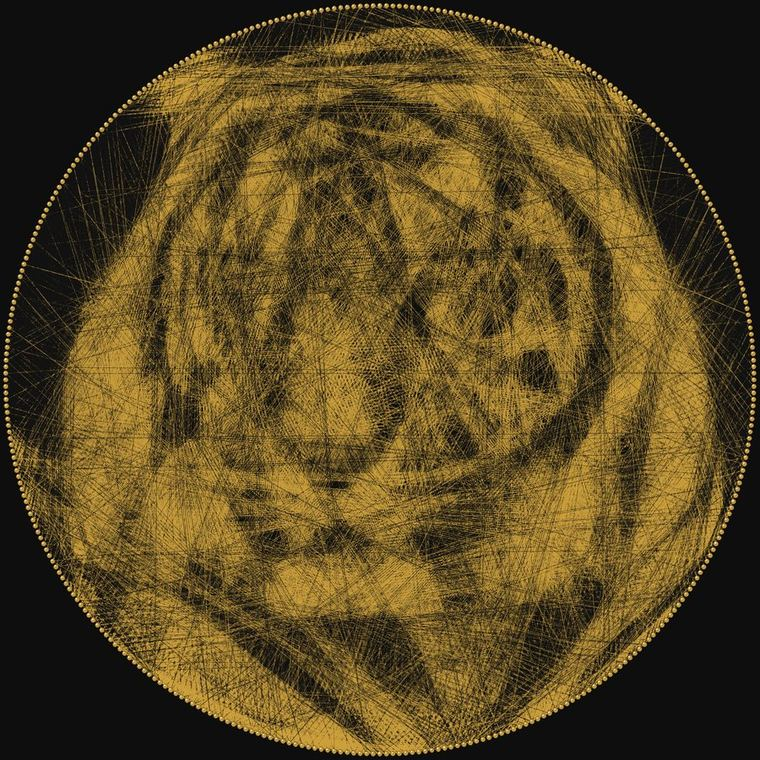
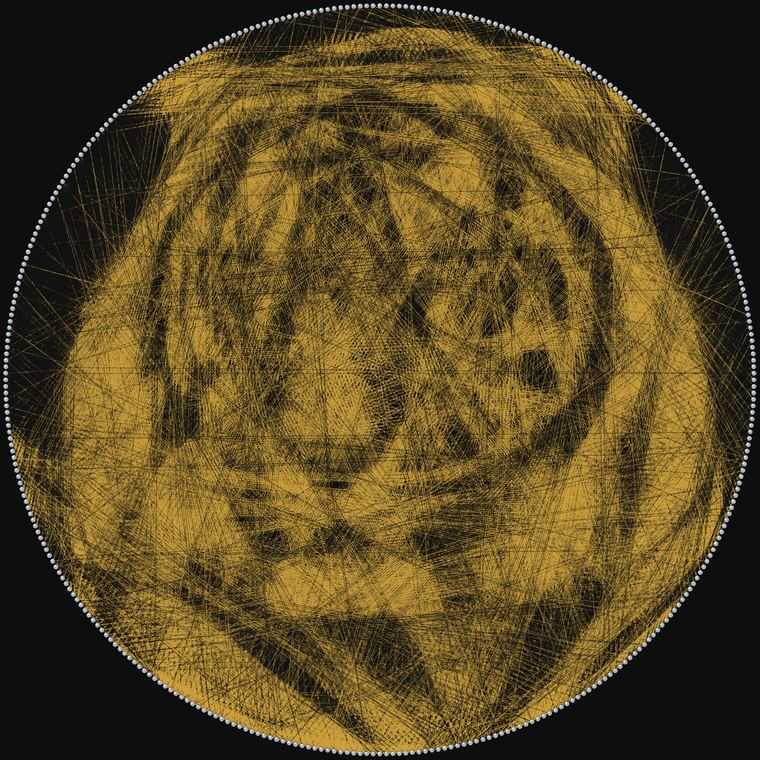
Design Silber statt Gold, Graphit statt Walnuss; Schalter Hell/Dunkel oben (gemerkt, ohne Aufflackern)
Alle Farben als Variablen, heller Modus mit Graphit-Akzent. Logo, Katzenbild und Zoom-Linie zeichnen silbern und wechseln beim Umschalten mit.
Beispielbilder mit silbernen Nägeln und Rahmenkante neu gerechnet; Logo-Dateien und Vorschaubild zum Teilen in Silber.

Claude-Session: https://claude.ai/code/session_01MQd3Ez1WfSEqrkkXqKTc86

diff --git a/static/home.css b/static/home.css
@@ -1,20 +1,36 @@
 /* Faded Art – Startseite v2
-   Idee: das Material der Bretter. Grund ist dunkles Walnussholz, Gold ist der Faden, Elfenbein das Licht.
+   Idee: Graphit und Silber wie Nagel und Faden. Dunkel ist Standard, hell per Schalter oben rechts.
    Ein einziger großer Moment: beim Scrollen spannt sich ein echtes Fadenbild. */
 body.v2{
-  --walnut:#17110c; --walnut-2:#1f1711; --walnut-3:#2a2017;
-  --gold:#c9a24a; --gold-hi:#e8c977; --ivory:#efe7d8; --muted:#a8998a; --faint:#7d6f60;
-  --line:rgba(201,162,74,.22);
+  /* Farben als Variablen: dunkel ist Standard, hell über den Schalter oben (html[data-theme=light]).
+     Namen von früher (walnut, gold, ivory) bleiben, damit nichts bricht: walnut = Grund, gold = Akzent (jetzt Silber), ivory = Text. */
+  --walnut:#111214; --walnut-2:#181a1d; --walnut-3:#22252a;
+  --gold:#a7aeb7; --gold-hi:#e6e9ed; --ivory:#eceef1; --muted:#9aa0a8; --faint:#6f757d; --soft:#c9ced4;
+  --acc:167,174,183; --acchi:230,233,237; --bgrgb:17,18,20; --fgrgb:236,238,241;
+  --on-acc:#121417; --glow:#1f2226; --deep:#0c0d0f; --frame:#0c0d0f; --knob-dark:#5d646c;
+  --line:rgba(var(--acc),.18);
   --serif:Cormorant,Georgia,serif; --sans:"Plus Jakarta Sans",system-ui,sans-serif;
   --ease:cubic-bezier(.2,.7,.15,1);
+  /* für die älteren Seiten (style.css) */
+  --bg:var(--walnut); --card:var(--walnut-2); --gold-t:var(--gold-hi); --text:var(--ivory);
+  --grad:linear-gradient(180deg,var(--gold-hi),var(--gold));
+  color-scheme:dark;
   background:var(--walnut); color:var(--ivory); font-family:var(--sans); font-size:1.0625rem; line-height:1.65;
+  transition:background-color .35s,color .35s;
+}
+html[data-theme=light] body.v2{
+  --walnut:#f3f3f1; --walnut-2:#ffffff; --walnut-3:#e7e8ea;
+  --gold:#5f6873; --gold-hi:#2b3138; --ivory:#16181b; --muted:#5b6169; --faint:#80868d; --soft:#3a3f45;
+  --acc:95,104,115; --acchi:43,49,56; --bgrgb:243,243,241; --fgrgb:22,24,27;
+  --on-acc:#ffffff; --glow:#ffffff; --deep:#e9eaec; --frame:#16181b; --knob-dark:#2b3138;
+  color-scheme:light;
 }
 body.v2 .wrap{max-width:none;padding:0}
 body.v2 main{overflow:clip}
 
 /* Kopfzeile */
 body.v2 header.top{position:fixed;inset:0 0 auto 0;z-index:40;padding:1rem max(1.25rem,calc(50% - 620px));border-bottom:1px solid transparent;transition:background .5s,border-color .5s,padding .5s}
-body.v2.scrolled header.top{background:rgba(23,17,12,.78);-webkit-backdrop-filter:blur(18px) saturate(1.2);backdrop-filter:blur(18px) saturate(1.2);border-bottom-color:var(--line);padding-block:.65rem}
+body.v2.scrolled header.top{background:rgba(var(--bgrgb),.78);-webkit-backdrop-filter:blur(18px) saturate(1.2);backdrop-filter:blur(18px) saturate(1.2);border-bottom-color:var(--line);padding-block:.65rem}
 body.v2 .logo{white-space:nowrap;font-size:1.15rem}
 body.v2 .menu summary{font-family:var(--sans);letter-spacing:.02em;font-size:.92rem;padding:.5rem 1.15rem}
 body.v2 .menu nav{background:var(--walnut-2)}
@@ -25,10 +41,10 @@ body.v2 footer{max-width:1240px;margin:0 auto;padding-inline:1.25rem;border-top-
 body.v2 h1,body.v2 h2,body.v2 h3{font-family:var(--serif);font-weight:500;letter-spacing:0;color:var(--ivory)}
 .h2{font-size:clamp(2.1rem,5vw,3.9rem);line-height:1.05;margin:0 0 1.25rem;text-wrap:balance}
 .sub{color:var(--muted);max-width:56ch;margin-bottom:2.5rem}
-.lead{color:#d6cbb9;font-size:clamp(1.05rem,1.5vw,1.2rem);max-width:46ch}
+.lead{color:var(--soft);font-size:clamp(1.05rem,1.5vw,1.2rem);max-width:46ch}
 .fine{color:var(--faint);font-size:.85rem;margin-top:2rem;max-width:72ch}
 body.v2 .btn{font-family:var(--sans);letter-spacing:.01em;font-weight:600;font-size:.98rem;padding:.9rem 1.7rem;border-radius:999px}
-body.v2 .btn-gold{background:linear-gradient(180deg,var(--gold-hi),var(--gold));color:#1a120a}
+body.v2 .btn-gold{background:linear-gradient(180deg,var(--gold-hi),var(--gold));color:var(--on-acc)}
 body.v2 .btn-quiet{border-color:transparent;color:var(--ivory);text-decoration:underline;text-decoration-color:var(--gold);text-underline-offset:.35em;padding-inline:.5rem}
 body.v2 .btn-quiet:hover{box-shadow:none;color:var(--gold-hi)}
 body.v2 .cta-row{display:flex;gap:1rem;flex-wrap:wrap;align-items:center}
@@ -40,7 +56,7 @@ body.v2 .cta-row{display:flex;gap:1rem;flex-wrap:wrap;align-items:center}
 /* 1. Hero */
 .hero{min-height:100svh;display:grid;grid-template-columns:minmax(0,1.1fr) minmax(0,1fr);align-items:center;gap:clamp(2rem,5vw,5rem);
   padding:6.5rem max(1.25rem,calc(50% - 620px)) 3rem;
-  background:radial-gradient(55% 60% at 30% 50%,#2a1f14 0%,transparent 70%),var(--walnut)}
+  background:radial-gradient(55% 60% at 30% 50%,var(--glow) 0%,transparent 70%),var(--walnut)}
 .hero-art{position:relative;width:min(100%,660px,78svh);aspect-ratio:1;justify-self:center}
 .hero-art canvas{width:100%;height:100%;display:block}
 .hero-count{position:absolute;right:6%;bottom:6%;font-size:.85rem;color:var(--muted)}
@@ -50,15 +66,15 @@ body.v2 .cta-row{display:flex;gap:1rem;flex-wrap:wrap;align-items:center}
 .hero .lead{margin-bottom:2.25rem}
 
 /* 2. Wie es entsteht: Regler zum Ziehen */
-.build{background:linear-gradient(var(--walnut),#120d09 20%,#120d09 80%,var(--walnut));padding:clamp(4.5rem,9vw,7rem) max(1.25rem,calc(50% - 620px))}
+.build{background:linear-gradient(var(--walnut),var(--deep) 20%,var(--deep) 80%,var(--walnut));padding:clamp(4.5rem,9vw,7rem) max(1.25rem,calc(50% - 620px))}
 .build-in{display:grid;grid-template-columns:minmax(0,1.2fr) auto minmax(0,1fr);align-items:center;gap:clamp(1.25rem,3vw,2.75rem)}
 .build-stage{position:relative;width:min(100%,78svh,620px);aspect-ratio:1;justify-self:center}
 .build-art,.build-art canvas{width:100%;height:100%;display:block;border-radius:50%}
-.build-art{box-shadow:0 0 0 1px rgba(201,162,74,.45),0 40px 90px -30px #000}
+.build-art{box-shadow:0 0 0 1px rgba(var(--acc),.45),0 40px 90px -30px #000}
 .build-orig{position:absolute;left:-4%;top:-4%;width:30%;margin:0;z-index:2}
 .build-orig img{width:100%;aspect-ratio:1;object-fit:cover;border-radius:50%;display:block;box-shadow:0 0 0 3px var(--walnut),0 0 0 4px var(--gold),0 14px 30px -10px #000}
 .build-orig figcaption{text-align:center;font-size:.82rem;color:var(--muted);margin-top:.5rem}
-.build-meter{position:absolute;right:-2%;bottom:-2%;display:grid;gap:.15rem;text-align:right;background:rgba(23,17,12,.85);border:1px solid var(--line);border-radius:14px;padding:.7rem 1rem;-webkit-backdrop-filter:blur(8px);backdrop-filter:blur(8px)}
+.build-meter{position:absolute;right:-2%;bottom:-2%;display:grid;gap:.15rem;text-align:right;background:rgba(var(--bgrgb),.85);border:1px solid var(--line);border-radius:14px;padding:.7rem 1rem;-webkit-backdrop-filter:blur(8px);backdrop-filter:blur(8px)}
 .build-meter p{display:flex;align-items:baseline;justify-content:flex-end;gap:.5rem;line-height:1.2}
 .build-meter b{font-family:var(--serif);font-weight:500;font-size:1.7rem;color:var(--gold-hi);font-variant-numeric:tabular-nums;min-width:3.6ch}
 .build-meter span{font-size:.8rem;color:var(--muted)}
@@ -66,37 +82,37 @@ body.v2 .cta-row{display:flex;gap:1rem;flex-wrap:wrap;align-items:center}
 .build-steps li{grid-area:1/1;opacity:0;transform:translateY(10px);transition:opacity .45s var(--ease),transform .55s var(--ease)}
 .build-steps li.on{opacity:1;transform:none}
 .build-steps h3{font-size:clamp(1.5rem,2.6vw,2rem);line-height:1.1;margin-bottom:.6rem;color:var(--gold-hi)}
-.build-steps p{color:#cdbfaa;max-width:40ch}
+.build-steps p{color:var(--soft);max-width:40ch}
 body.v2 .linkbtn{color:var(--gold-hi)}
 /* Regler: senkrechtes Lineal mit Raster, Knopf zum Ziehen */
 .scrub-wrap{height:min(78svh,620px);display:flex;align-items:stretch;padding:0 2.6rem 0 .5rem}
 .scrub{position:relative;width:44px;cursor:grab;touch-action:none;outline:none}
 .scrub.drag{cursor:grabbing}
-.scrub::before{content:"";position:absolute;left:21px;top:0;bottom:0;width:2px;background:rgba(239,231,216,.18);border-radius:2px}
-.scrub-fill{position:absolute;left:21px;top:0;width:2px;height:0;background:linear-gradient(var(--gold-hi),var(--gold));box-shadow:0 0 8px rgba(232,201,119,.6)}
-.scrub-ticks span{position:absolute;top:var(--p);left:14px;width:8px;height:1px;background:rgba(239,231,216,.35)}
-.scrub-ticks span.big{width:14px;left:8px;background:rgba(239,231,216,.6)}
+.scrub::before{content:"";position:absolute;left:21px;top:0;bottom:0;width:2px;background:rgba(var(--fgrgb),.18);border-radius:2px}
+.scrub-fill{position:absolute;left:21px;top:0;width:2px;height:0;background:linear-gradient(var(--gold-hi),var(--gold));box-shadow:0 0 8px rgba(var(--acchi),.6)}
+.scrub-ticks span{position:absolute;top:var(--p);left:14px;width:8px;height:1px;background:rgba(var(--fgrgb),.35)}
+.scrub-ticks span.big{width:14px;left:8px;background:rgba(var(--fgrgb),.6)}
 .scrub-ticks em{position:absolute;left:30px;top:0;transform:translateY(-50%);font-style:normal;font-size:.72rem;color:var(--faint);font-variant-numeric:tabular-nums;white-space:nowrap}
-.scrub-knob{position:absolute;left:22px;top:0;width:26px;height:26px;margin:-13px 0 0 -13px;border-radius:50%;background:radial-gradient(circle at 35% 35%,#f6e3a6,var(--gold) 60%,#7a5c1f);box-shadow:0 0 0 4px rgba(201,162,74,.18),0 4px 12px rgba(0,0,0,.6);transition:box-shadow .2s}
-.scrub:focus-visible .scrub-knob,.scrub.drag .scrub-knob{box-shadow:0 0 0 7px rgba(232,201,119,.32),0 4px 12px rgba(0,0,0,.6)}
+.scrub-knob{position:absolute;left:22px;top:0;width:26px;height:26px;margin:-13px 0 0 -13px;border-radius:50%;background:radial-gradient(circle at 35% 35%,var(--gold-hi),var(--gold) 60%,var(--knob-dark));box-shadow:0 0 0 4px rgba(var(--acc),.18),0 4px 12px rgba(0,0,0,.6);transition:box-shadow .2s}
+.scrub:focus-visible .scrub-knob,.scrub.drag .scrub-knob{box-shadow:0 0 0 7px rgba(var(--acchi),.32),0 4px 12px rgba(0,0,0,.6)}
 
 /* 3. Nah und fern */
 .nf-sec{text-align:center}
 .nf-sec .h2{margin-bottom:3.5rem}
 .nf{display:grid;grid-template-columns:1fr 1fr;gap:clamp(1rem,5vw,4rem);max-width:900px;margin:0 auto}
 .nf figure{margin:0}
-.nf img{width:100%;max-width:380px;aspect-ratio:1;object-fit:cover;border-radius:50%;display:block;margin:0 auto 1.25rem;box-shadow:0 0 0 1px rgba(201,162,74,.45),0 30px 60px -25px #000}
+.nf img{width:100%;max-width:380px;aspect-ratio:1;object-fit:cover;border-radius:50%;display:block;margin:0 auto 1.25rem;box-shadow:0 0 0 1px rgba(var(--acc),.45),0 30px 60px -25px #000}
 .nf figcaption{color:var(--muted);font-size:.95rem;max-width:30ch;margin:0 auto}
 .nf figcaption b{display:block;font-family:var(--serif);font-weight:500;font-size:1.45rem;color:var(--ivory);margin-bottom:.2rem}
 
 /* 4. Schwarz und Weiß */
 .bw{display:grid;grid-template-columns:1.1fr 1fr;gap:clamp(2rem,6vw,6rem);align-items:center}
 .bw-img img{width:100%;display:block;border-radius:4px;box-shadow:0 40px 80px -30px #000}
-.bw-copy p:not(.fine){color:#cdbfaa;margin-bottom:1rem;max-width:52ch}
+.bw-copy p:not(.fine){color:var(--soft);margin-bottom:1rem;max-width:52ch}
 
 /* 5. Holz */
 .wood{display:grid;grid-template-columns:minmax(0,1fr) minmax(0,1fr);gap:clamp(2rem,5vw,5rem);align-items:center;margin-top:3rem}
-.wood-frame{padding:14px;background:#0e0b08;box-shadow:inset 0 0 0 1px rgba(201,162,74,.6),0 50px 90px -30px #000;width:min(100%,520px);justify-self:center}
+.wood-frame{padding:14px;background:var(--frame);box-shadow:inset 0 0 0 1px rgba(var(--acc),.6),0 50px 90px -30px #000;width:min(100%,520px);justify-self:center}
 .wood-board{aspect-ratio:1;display:grid;place-items:center;transition:background-image .4s}
 .wood-board img{width:88%;aspect-ratio:1;border-radius:50%;object-fit:cover;box-shadow:0 6px 18px rgba(0,0,0,.55)}
 .wood-name{font-family:var(--serif);font-size:clamp(1.8rem,3.4vw,2.6rem);line-height:1.1;margin-bottom:1.5rem;color:var(--gold-hi)}
@@ -129,7 +145,7 @@ body.v2 .wood-board[data-wood=beton]{background:url(img/holz/beton.jpg) center/c
 .room-floor{fill:#b9a283}
 .room-sofa rect{fill:#5c6a63}
 .room-sofa rect:nth-child(4){fill:#4e5b54}
-.room-board{stroke:#0e0b08;stroke-width:1.2;filter:drop-shadow(0 2px 2px rgba(0,0,0,.35));transition:all .5s var(--ease)}
+.room-board{stroke:var(--frame);stroke-width:1.2;filter:drop-shadow(0 2px 2px rgba(0,0,0,.35));transition:all .5s var(--ease)}
 #boardArt{transition:all .5s var(--ease)}
 .room-dim{font:500 5px var(--sans);fill:#5a4c3d;text-anchor:middle}
 .size-pick{display:grid;gap:.6rem}
@@ -149,9 +165,9 @@ body.v2 .wood-board[data-wood=beton]{background:url(img/holz/beton.jpg) center/c
 
 /* 9. Gutschein */
 .gift{display:grid;grid-template-columns:minmax(0,.9fr) minmax(0,1fr);gap:clamp(2rem,6vw,6rem);align-items:center}
-.gift p{color:#cdbfaa;max-width:48ch;margin-bottom:1.75rem}
+.gift p{color:var(--soft);max-width:48ch;margin-bottom:1.75rem}
 .gift-card{aspect-ratio:1.6;max-width:460px;width:100%;justify-self:center;border-radius:16px;padding:1.6rem 1.8rem;position:relative;overflow:hidden;
-  background:linear-gradient(135deg,#2c2117,#15100b 60%);box-shadow:inset 0 0 0 1px rgba(201,162,74,.55),0 40px 70px -30px #000;transform:rotate(-3deg)}
+  background:linear-gradient(135deg,#2c2117,#15100b 60%);box-shadow:inset 0 0 0 1px rgba(var(--acc),.55),0 40px 70px -30px #000;transform:rotate(-3deg)}
 .gift-card img{position:absolute;right:-18%;top:-22%;width:70%;opacity:.9}
 .gift-card .gc-mark{font-family:Cinzel,Georgia,serif;letter-spacing:.3em;font-size:.8rem;color:var(--gold);margin:0}
 .gift-card .gc-t{font-family:var(--serif);font-size:2.6rem;line-height:1;margin:1.6rem 0 .5rem;color:var(--ivory)}
@@ -168,7 +184,7 @@ body.v2 .wood-board[data-wood=beton]{background:url(img/holz/beton.jpg) center/c
 .faq p{color:var(--muted);margin-top:.7rem;max-width:62ch}
 
 /* Schluss */
-.final{text-align:center;padding:clamp(6rem,14vw,10rem) 1.25rem;background:radial-gradient(45% 55% at 50% 50%,#2a1f14,transparent 70%);border-top:1px solid var(--line)}
+.final{text-align:center;padding:clamp(6rem,14vw,10rem) 1.25rem;background:radial-gradient(45% 55% at 50% 50%,var(--glow),transparent 70%);border-top:1px solid var(--line)}
 .final h2{font-size:clamp(2.6rem,6.4vw,5.2rem);line-height:1;margin-bottom:1rem}
 .final .lead{margin:0 auto 2.25rem}
 .final .cta-row{justify-content:center}
@@ -201,7 +217,7 @@ body.v2 .wood-board[data-wood=beton]{background:url(img/holz/beton.jpg) center/c
 .seg{display:grid;grid-template-columns:repeat(2,1fr);gap:4px;padding:4px;background:var(--walnut-2);border-radius:12px}
 .seg4{grid-template-columns:repeat(4,1fr)}
 .seg button{font:inherit;font-size:.86rem;color:var(--ivory);background:transparent;border:0;border-radius:9px;padding:.6rem .3rem;cursor:pointer;line-height:1.2;min-width:0}
-.seg button:hover{background:rgba(239,231,216,.06)}
+.seg button:hover{background:rgba(var(--fgrgb),.06)}
 .seg button.on{background:var(--walnut-3);box-shadow:inset 0 0 0 1px var(--gold);color:var(--gold-hi)}
 .sizes-seg button{display:grid;gap:.1rem}
 .sizes-seg b{font-family:var(--serif);font-weight:500;font-size:1.25rem}
@@ -214,14 +230,14 @@ body.v2 .wood-board[data-wood=beton]{background:url(img/holz/beton.jpg) center/c
 
 /* Faden-Leiste rechts */
 .thread{position:fixed;right:clamp(8px,1.6vw,24px);top:96px;z-index:30;width:24px;pointer-events:none}
-.t-line{position:relative;width:2px;margin-left:11px;background:rgba(239,231,216,.2);border-radius:2px}
-.t-fill{position:absolute;inset:0;background:linear-gradient(var(--gold-hi),var(--gold));transform-origin:top;transform:scaleY(0);box-shadow:0 0 8px rgba(232,201,119,.7);border-radius:2px}
+.t-line{position:relative;width:2px;margin-left:11px;background:rgba(var(--fgrgb),.2);border-radius:2px}
+.t-fill{position:absolute;inset:0;background:linear-gradient(var(--gold-hi),var(--gold));transform-origin:top;transform:scaleY(0);box-shadow:0 0 8px rgba(var(--acchi),.7);border-radius:2px}
 .thread-pins{list-style:none;position:absolute;inset:0 0 auto 0}
 .thread-pins li{position:absolute;right:0;transform:translateY(-50%);pointer-events:auto}
 .thread-pins a{display:flex;align-items:center;justify-content:center;width:24px;height:24px;text-decoration:none;position:relative}
-.thread-pins i{width:9px;height:9px;border-radius:50%;background:var(--walnut-3);box-shadow:0 0 0 1px rgba(239,231,216,.35);transition:background .35s,box-shadow .35s,transform .35s}
-.thread-pins span{position:absolute;right:28px;white-space:nowrap;font-size:.8rem;color:var(--ivory);background:rgba(23,17,12,.9);border:1px solid var(--line);border-radius:999px;padding:.2rem .65rem;opacity:0;transform:translateX(6px);transition:opacity .35s,transform .35s}
-.thread-pins li.on i{background:var(--gold-hi);box-shadow:0 0 0 1px var(--gold),0 0 10px rgba(232,201,119,.7)}
+.thread-pins i{width:9px;height:9px;border-radius:50%;background:var(--walnut-3);box-shadow:0 0 0 1px rgba(var(--fgrgb),.35);transition:background .35s,box-shadow .35s,transform .35s}
+.thread-pins span{position:absolute;right:28px;white-space:nowrap;font-size:.8rem;color:var(--ivory);background:rgba(var(--bgrgb),.9);border:1px solid var(--line);border-radius:999px;padding:.2rem .65rem;opacity:0;transform:translateX(6px);transition:opacity .35s,transform .35s}
+.thread-pins li.on i{background:var(--gold-hi);box-shadow:0 0 0 1px var(--gold),0 0 10px rgba(var(--acchi),.7)}
 .thread-pins li.cur i{transform:scale(1.4)}
 .thread-pins li.cur span,.thread-pins a:hover span,.thread-pins a:focus-visible span{opacity:1;transform:none}
 
@@ -287,7 +303,7 @@ body.v2 .steps-v{max-width:none;margin:3rem 0 0}
 .cmp-pick button.on{border-color:var(--gold);color:var(--gold-hi)}
 .cmp{display:grid;grid-template-columns:repeat(4,minmax(0,1fr));gap:clamp(1rem,2.5vw,2rem)}
 .cmp figure{margin:0}
-.cmp img{width:100%;aspect-ratio:1;object-fit:cover;border-radius:50%;display:block;box-shadow:0 0 0 1px rgba(201,162,74,.35),0 24px 50px -24px #000}
+.cmp img{width:100%;aspect-ratio:1;object-fit:cover;border-radius:50%;display:block;box-shadow:0 0 0 1px rgba(var(--acc),.35),0 24px 50px -24px #000}
 .cmp-lux img{box-shadow:0 0 0 2px var(--gold),0 24px 50px -24px #000}
 .cmp figcaption{margin-top:1rem;color:var(--muted);font-size:.9rem}
 .cmp figcaption b{display:block;font-family:var(--serif);font-weight:500;font-size:1.35rem;color:var(--ivory)}
@@ -297,7 +313,7 @@ body.v2 .steps-v{max-width:none;margin:3rem 0 0}
 .player{display:flex;align-items:center;gap:.6rem;margin-top:1.5rem;flex-wrap:wrap}
 .player button{width:44px;height:44px;border-radius:50%;border:1px solid var(--line);background:var(--walnut-2);color:var(--ivory);display:grid;place-items:center;cursor:pointer;transition:border-color .2s,background .2s}
 .player button:hover{border-color:var(--gold)}
-.player button.main{width:54px;height:54px;background:linear-gradient(180deg,var(--gold-hi),var(--gold));border:0;color:#1a120a}
+.player button.main{width:54px;height:54px;background:linear-gradient(180deg,var(--gold-hi),var(--gold));border:0;color:var(--on-acc)}
 .player svg{width:20px;height:20px;fill:currentColor}
 .player .main svg{width:24px;height:24px}
 .player .i-play,.player .paused .i-pause{display:none}
@@ -308,7 +324,7 @@ body.v2 .steps-v{max-width:none;margin:3rem 0 0}
 .build-meter p{justify-content:flex-start}
 .build-meter b{font-size:2rem;min-width:0}
 .build-orig{position:absolute}
-.build-orig figcaption{position:absolute;left:50%;bottom:4%;transform:translateX(-50%);margin:0;padding:.15rem .6rem;border-radius:999px;background:rgba(23,17,12,.85);border:1px solid var(--line);font-size:.75rem;color:var(--ivory);white-space:nowrap}
+.build-orig figcaption{position:absolute;left:50%;bottom:4%;transform:translateX(-50%);margin:0;padding:.15rem .6rem;border-radius:999px;background:rgba(var(--bgrgb),.85);border:1px solid var(--line);font-size:.75rem;color:var(--ivory);white-space:nowrap}
 @media(max-width:900px) and (orientation:portrait),(max-width:600px){.build-meter{gap:1.5rem;margin-top:1rem}.build-meter b{font-size:1.6rem}}
 
 /* Unterseiten (Konfigurator, Warenkorb, Gutschein, Rechtstexte) im selben Stil */
@@ -318,7 +334,7 @@ body.v2.page h2.title{font-size:clamp(2rem,4.5vw,3rem);text-align:left;margin-bo
 body.v2.page .legal{max-width:760px}
 body.v2.page .legal h1{font-size:clamp(2rem,4vw,2.8rem)}
 body.v2.page .legal h2{font-family:var(--serif);font-size:1.4rem;color:var(--gold-hi)}
-body.v2.page .legal p,body.v2.page .legal li{color:#d6cbb9}
+body.v2.page .legal p,body.v2.page .legal li{color:var(--soft)}
 body.v2.page .panel h2{font-size:1.9rem}
 body.v2.page .steps b{border-color:var(--walnut-3)}
 body.v2.page .field label{font-family:var(--sans)}
@@ -334,7 +350,7 @@ body.v2.page .menu summary{color:var(--gold-hi)}
 .real{display:grid;grid-template-columns:minmax(0,1fr) minmax(0,1fr);gap:clamp(2rem,6vw,5rem);align-items:center}
 .real-img{margin:0}
 .real-img img{width:100%;display:block;border-radius:4px;box-shadow:0 40px 80px -30px #000}
-.real p:not(.fine){color:#cdbfaa;max-width:48ch;margin-bottom:1rem}
+.real p:not(.fine){color:var(--soft);max-width:48ch;margin-bottom:1rem}
 @media(max-width:900px) and (orientation:portrait),(max-width:600px){.real{grid-template-columns:1fr}}
 @media(max-width:600px){.seg[data-k=fmt]{grid-template-columns:1fr 1fr}}
 /* Raum-Vorschau im Konfigurator */
@@ -354,3 +370,36 @@ body.v2.page .menu summary{color:var(--gold-hi)}
 .restart{display:inline-flex;align-items:center;gap:.45rem;font:inherit;font-size:.88rem;color:var(--gold-hi);background:transparent;border:1px solid var(--line);border-radius:999px;padding:.45rem .95rem;cursor:pointer}
 .restart::before{content:"↺";font-size:1rem;line-height:1}
 .restart:hover{border-color:var(--gold)}
+
+/* ===== Farben der älteren Seiten (style.css) an Silber und Hell/Dunkel anpassen ===== */
+body.v2 input,body.v2 select{background:var(--walnut-3);color:var(--ivory);border-color:var(--line)}
+body.v2 .btn{color:var(--gold-hi);border-color:var(--line)}
+body.v2 .btn-gold,body.v2 .menu nav a.cta,body.v2 .gs-val.on,body.v2 .gs-sale{color:var(--on-acc)}
+body.v2 .btn:hover{box-shadow:0 8px 24px rgba(var(--acc),.25)}
+body.v2 .menu nav a{color:var(--ivory)}
+body.v2 .menu nav a:hover{background:var(--walnut-3)}
+body.v2 .steps b{border-color:var(--walnut-3)}
+body.v2 .steps li.done b{background:var(--gold);color:var(--on-acc)}
+body.v2 .steps li[aria-current=step]{color:var(--gold-hi)}
+body.v2 .vopt{color:var(--ivory)}
+body.v2 .vopt img,body.v2 .vopt canvas,body.v2 .cart-thumb img{background:var(--walnut-3)}
+body.v2 .vopt.sel{border-color:var(--gold);box-shadow:0 0 0 2px rgba(var(--acc),.35)}
+body.v2 .sugg-h,body.v2 .vopt .xp{color:var(--gold-hi)}
+body.v2 .cut-seg{background:var(--walnut-3)}
+body.v2 .cut-seg button{color:var(--ivory)}
+body.v2 .cut-seg button.on{background:var(--walnut-2);color:var(--gold-hi)}
+body.v2 .spin{border-color:var(--walnut-3);border-top-color:var(--gold)}
+body.v2 mark{background:rgba(var(--acc),.22);color:var(--gold-hi)}
+body.v2 .field label,body.v2 .cut-l,body.v2 .price,body.v2 .cartlink,body.v2 .biginfo,body.v2 a{color:var(--gold-hi)}
+body.v2 .hint{color:var(--muted)}
+html[data-theme=light] body.v2 .msg{color:#b3261e}
+body.v2 footer{color:var(--muted)}
+
+/* Schalter Hell/Dunkel in der Kopfzeile */
+.theme-btn{display:grid;place-items:center;width:38px;height:38px;border-radius:50%;border:1px solid var(--line);background:transparent;color:var(--gold-hi);cursor:pointer;transition:border-color .2s,transform .3s}
+.theme-btn:hover{border-color:var(--gold)}
+.theme-btn svg{width:18px;height:18px;fill:none;stroke:currentColor;stroke-width:1.8;stroke-linecap:round}
+.theme-btn .i-sun{display:none}
+html[data-theme=light] .theme-btn .i-sun{display:block}
+html[data-theme=light] .theme-btn .i-moon{display:none}
+@media(max-width:600px){.theme-btn{width:34px;height:34px}body.v2 .head-right{gap:.6rem}}

diff --git a/templates/index.html b/templates/index.html
@@ -275,27 +275,38 @@
   const $ = s => document.querySelector(s), $$ = s => [...document.querySelectorAll(s)];
   const de = v => Math.round(v).toLocaleString('de-DE');
 
-  /* Hero: Logo spannt sich (Nagel i -> i+75, verblassender Ring) */
+  /* Hero: Logo spannt sich (Nagel i -> i+75, verblassender Ring). Silber im dunklen, Graphit im hellen Modus */
   (() => {
     const cv = $('#heroCanvas'), cnt = $('#heroN'), ctx = cv.getContext('2d'), S = cv.width, c = S / 2, R = S * .40, n = 240;
     const ang = i => Math.PI / 2 + 2 * Math.PI * (i % n) / n;
     const P = Array.from({ length: n }, (_, i) => [c + R * Math.cos(ang(i)), c + R * Math.sin(ang(i))]);
     const fade = i => Math.pow(Math.cos(2 * Math.PI * i / n + Math.PI) * .5 + .5, 1.6);
     const L = [];
-    for (let i = 0; i < n; i++) L.push([i, (i + 75) % n, 'rgba(222,184,82,' + (.05 + .5 * fade(i)).toFixed(3) + ')', 1.4]);
-    for (let i = 0; i < n; i++) if (fade(i) > .25) L.push([i, (i + 100) % n, 'rgba(242,236,222,' + (.18 * fade(i)).toFixed(3) + ')', 1.2]);
-    ctx.strokeStyle = 'rgba(201,162,74,.55)'; ctx.lineWidth = 2.5; ctx.beginPath(); ctx.arc(c, c, R + 22, 0, 7); ctx.stroke();
-    ctx.strokeStyle = 'rgba(201,162,74,.25)'; ctx.lineWidth = 2; ctx.beginPath(); ctx.arc(c, c, R + 34, 0, 7); ctx.stroke();
-    const pin = i => { const [x, y] = P[i];
-      ctx.fillStyle = '#8a6b26'; ctx.beginPath(); ctx.arc(x, y, 3.2, 0, 7); ctx.fill();
-      ctx.fillStyle = '#f3dd96'; ctx.beginPath(); ctx.arc(x - .9, y - .9, 1.3, 0, 7); ctx.fill(); };
-    let i = 0, pd = 0;
+    for (let i = 0; i < n; i++) L.push([i, (i + 75) % n, 0, .05 + .5 * fade(i), 1.4]);
+    for (let i = 0; i < n; i++) if (fade(i) > .25) L.push([i, (i + 100) % n, 1, .18 * fade(i), 1.2]);
+    const pal = () => document.documentElement.dataset.theme === 'light'
+      ? { line: ['43,49,56', '120,128,138'], mix: 'multiply', ring: '95,104,115', pin: '#8d949c', hi: '#ffffff' }
+      : { line: ['214,220,228', '255,255,255'], mix: 'lighter', ring: '167,174,183', pin: '#6f767e', hi: '#f4f6f8' };
+    let i = 0, pd = 0, C = pal();
+    const rings = () => {
+      ctx.strokeStyle = `rgba(${C.ring},.55)`; ctx.lineWidth = 2.5; ctx.beginPath(); ctx.arc(c, c, R + 22, 0, 7); ctx.stroke();
+      ctx.strokeStyle = `rgba(${C.ring},.25)`; ctx.lineWidth = 2; ctx.beginPath(); ctx.arc(c, c, R + 34, 0, 7); ctx.stroke(); };
+    const pin = k => { const [x, y] = P[k];
+      ctx.fillStyle = C.pin; ctx.beginPath(); ctx.arc(x, y, 3.2, 0, 7); ctx.fill();
+      ctx.fillStyle = C.hi; ctx.beginPath(); ctx.arc(x - .9, y - .9, 1.3, 0, 7); ctx.fill(); };
+    const line = j => { const [a, b, f, al, w] = L[j];
+      ctx.strokeStyle = `rgba(${C.line[f]},${al.toFixed(3)})`; ctx.lineWidth = w; ctx.beginPath(); ctx.moveTo(P[a][0], P[a][1]); ctx.lineTo(P[b][0], P[b][1]); ctx.stroke(); };
     const pinsTo = k => { for (; pd < Math.min(n, k); pd++) pin(pd); };
-    const step = k => { ctx.globalCompositeOperation = 'lighter';
-      for (let e = Math.min(L.length, i + k); i < e; i++) { const [a, b, col, w] = L[i];
-        ctx.strokeStyle = col; ctx.lineWidth = w; ctx.beginPath(); ctx.moveTo(P[a][0], P[a][1]); ctx.lineTo(P[b][0], P[b][1]); ctx.stroke(); }
+    const step = k => { ctx.globalCompositeOperation = C.mix;
+      for (let e = Math.min(L.length, i + k); i < e; i++) line(i);
       ctx.globalCompositeOperation = 'source-over'; };
-    const done = () => { for (let k = 0; k < n; k++) pin(k); cnt.textContent = de(L.length); $('.hero-ring').classList.add('on'); };
+    const redraw = () => {                                        // nach Umschalten Hell/Dunkel: alles bisher Gespannte neu zeichnen
+      C = pal(); ctx.clearRect(0, 0, S, S); rings();
+      ctx.globalCompositeOperation = C.mix; for (let j = 0; j < i; j++) line(j); ctx.globalCompositeOperation = 'source-over';
+      for (let k = 0; k < pd; k++) pin(k); };
+    addEventListener('fa-theme', redraw);
+    rings();
+    const done = () => { for (let k = 0; k < n; k++) pin(k); pd = n; cnt.textContent = de(L.length); $('.hero-ring').classList.add('on'); };
     if (reduce) { pinsTo(n); step(L.length); return done(); }
     const t0 = performance.now(), PIN = 1800, DUR = 15000;
     const frame = t => { const e = t - t0;
@@ -313,8 +324,8 @@
     const sc = $('#scrub'), fillEl = $('.scrub-fill'), knob = $('.scrub-knob'), ticks = $('.scrub-ticks');
     let D = null, P, cum, drawn = 0, cur, N = 1, val = 0, play = null;
     const col = ['rgba(14,12,10,.45)', 'rgba(240,233,220,.42)'];
-    const reset = () => { ctx.clearRect(0, 0, S, S); ctx.fillStyle = '#100d0a'; ctx.beginPath(); ctx.arc(c, c, c, 0, 7); ctx.fill();
-      ctx.fillStyle = '#b48d3c'; P.forEach(([x, y]) => { ctx.beginPath(); ctx.arc(x, y, 2, 0, 7); ctx.fill(); }); drawn = 0; cur = D.s.slice(); };
+    const reset = () => { ctx.clearRect(0, 0, S, S); ctx.fillStyle = '#0f1012'; ctx.beginPath(); ctx.arc(c, c, c, 0, 7); ctx.fill();
+      ctx.fillStyle = '#a9b0b8'; P.forEach(([x, y]) => { ctx.beginPath(); ctx.arc(x, y, 2, 0, 7); ctx.fill(); }); drawn = 0; cur = D.s.slice(); };
     const drawTo = k => { if (k < drawn) reset(); ctx.lineWidth = 1.05;
       for (; drawn < k; drawn++) { const f = +D.k[drawn], a = P[cur[f]], b = P[D.p[drawn]];
         ctx.strokeStyle = col[f]; ctx.beginPath(); ctx.moveTo(a[0], a[1]); ctx.lineTo(b[0], b[1]); ctx.stroke(); cur[f] = D.p[drawn]; } };

diff --git a/templates/base.html b/templates/base.html
@@ -3,7 +3,8 @@
 <head>
 <meta charset="UTF-8">
 <meta name="viewport" content="width=device-width, initial-scale=1">
-<meta name="theme-color" content="#0a0908">
+<meta name="theme-color" content="#111214">
+<script>try{var t=localStorage.getItem("fa-theme");if(t==="light")document.documentElement.dataset.theme="light";}catch(e){}</script>
 <link rel="preload" href="{{ url_for('static', filename='fonts/cinzel.woff') }}" as="font" type="font/woff" crossorigin>
 <title>{% block title %}Faded Art – Ihr Foto als String Art{% endblock %}</title>
 <meta name="description" content="{% block desc %}Dein Foto als Fadenbild: hochladen, drei Varianten ansehen, Holz und Größe wählen und sicher bestellen. Faded Art aus Feldkirchen bei München.{% endblock %}">
@@ -21,7 +22,10 @@
 <div class="wrap">
 <header class="top" id="top">
   <a href="/" class="logo gold-text">FADED ART</a>
-  <div class="head-right"><a href="/warenkorb" class="cartlink">Warenkorb{% if cart_count %} ({{ cart_count }}){% endif %}</a>
+  <div class="head-right"><button type="button" class="theme-btn" id="themeBtn" aria-label="Hellen Modus einschalten" title="Hell / Dunkel">
+    <svg class="i-moon" viewBox="0 0 24 24" aria-hidden="true"><path d="M20 14.5A8 8 0 0 1 9.5 4a8 8 0 1 0 10.5 10.5z"/></svg>
+    <svg class="i-sun" viewBox="0 0 24 24" aria-hidden="true"><circle cx="12" cy="12" r="4"/><path d="M12 2v2M12 20v2M2 12h2M20 12h2M4.9 4.9l1.4 1.4M17.7 17.7l1.4 1.4M4.9 19.1l1.4-1.4M17.7 6.3l1.4-1.4"/></svg>
+  </button><a href="/warenkorb" class="cartlink">Warenkorb{% if cart_count %} ({{ cart_count }}){% endif %}</a>
   <details class="menu">
     <summary>Menü</summary>
     <nav aria-label="Hauptmenü">
@@ -40,6 +44,20 @@
 </footer>
 </div>
 <script>document.addEventListener('click',e=>{const m=document.querySelector('.menu');if(m&&!m.contains(e.target))m.open=false})</script>
+<script>
+(() => {                                                 // Hell/Dunkel umschalten und merken
+  const b = document.getElementById('themeBtn'), root = document.documentElement;
+  const label = () => b.setAttribute('aria-label', root.dataset.theme === 'light' ? 'Dunklen Modus einschalten' : 'Hellen Modus einschalten');
+  label();
+  b.addEventListener('click', () => {
+    const light = root.dataset.theme !== 'light';
+    if (light) root.dataset.theme = 'light'; else delete root.dataset.theme;
+    try { localStorage.setItem('fa-theme', light ? 'light' : 'dark'); } catch (e) {}
+    const m = document.querySelector('meta[name=theme-color]'); if (m) m.content = light ? '#f3f3f1' : '#111214';
+    label(); window.dispatchEvent(new Event('fa-theme'));
+  });
+})();
+</script>
 {% block scripts %}{% endblock %}
 </body>
 </html>

diff --git a/static/configure.js b/static/configure.js
@@ -413,7 +413,7 @@ function drawBig(s) {
   x.globalAlpha = 1; x.drawImage(s.cvs, 0, 0);
   if (s.prev) {
     const [x0, y0] = pinXY(s.prev[0], s.n), [x1, y1] = pinXY(s.prev[1], s.n);
-    x.strokeStyle = '#e6ca65'; x.globalAlpha = .95; x.lineWidth = 2.5; x.beginPath(); x.moveTo(x0, y0); x.lineTo(x1, y1); x.stroke();
+    x.strokeStyle = '#8fb3e0'; x.globalAlpha = .95; x.lineWidth = 2.5; x.beginPath(); x.moveTo(x0, y0); x.lineTo(x1, y1); x.stroke();
   }
   b.hidden = false; $('result').hidden = true; cv.hidden = true;
 }
